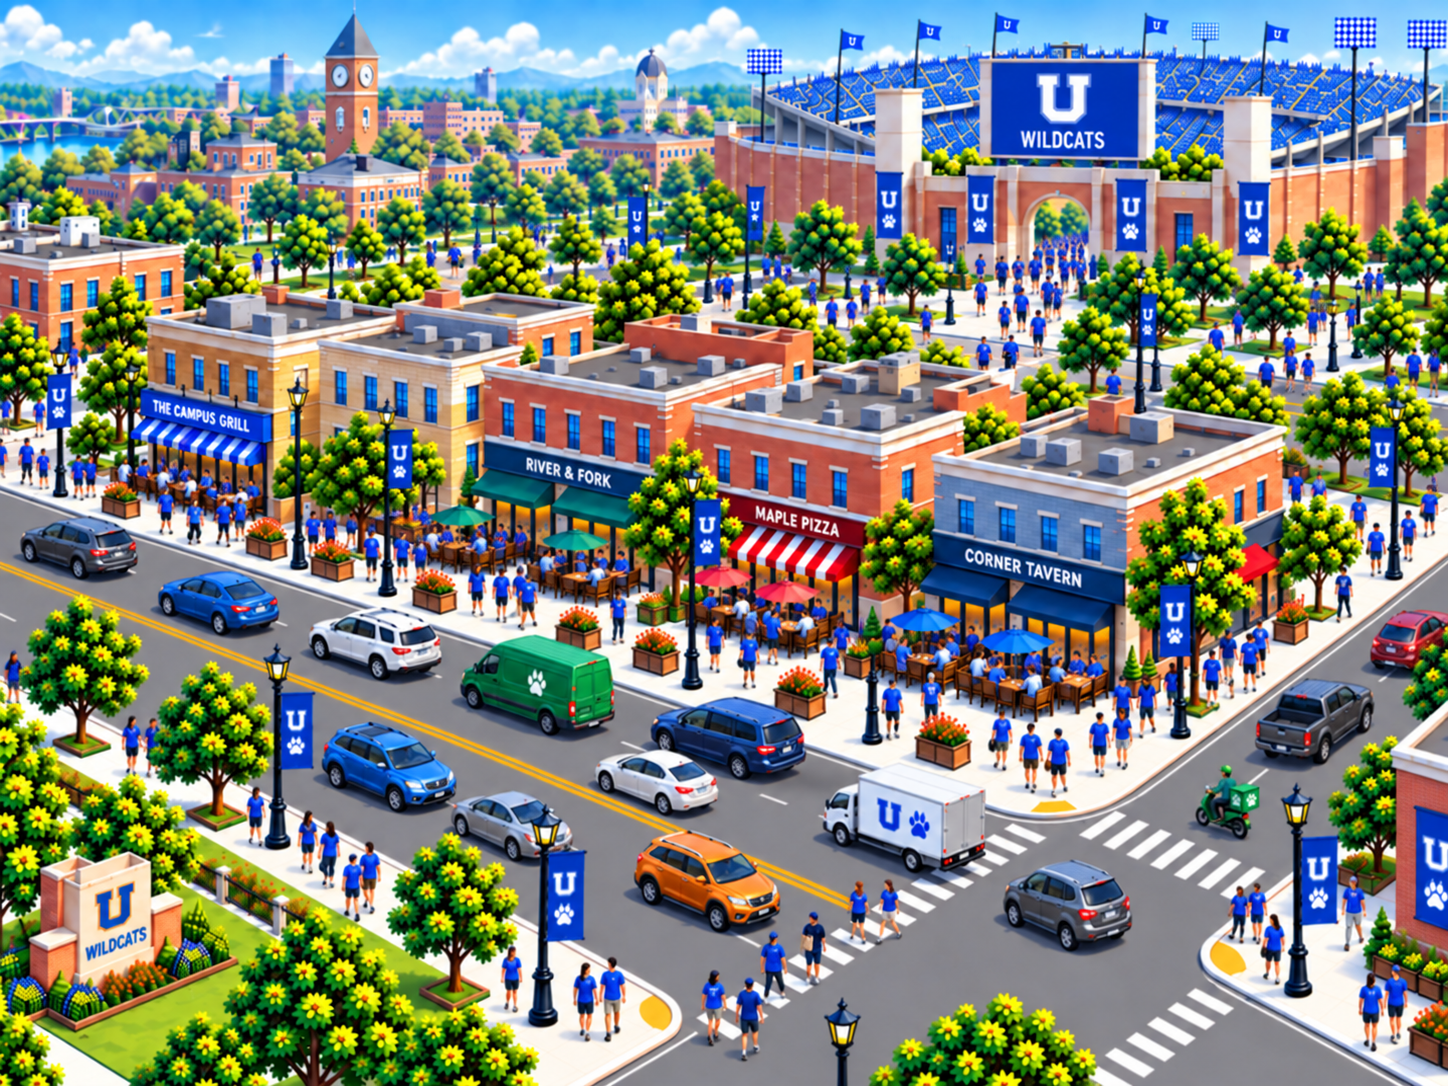
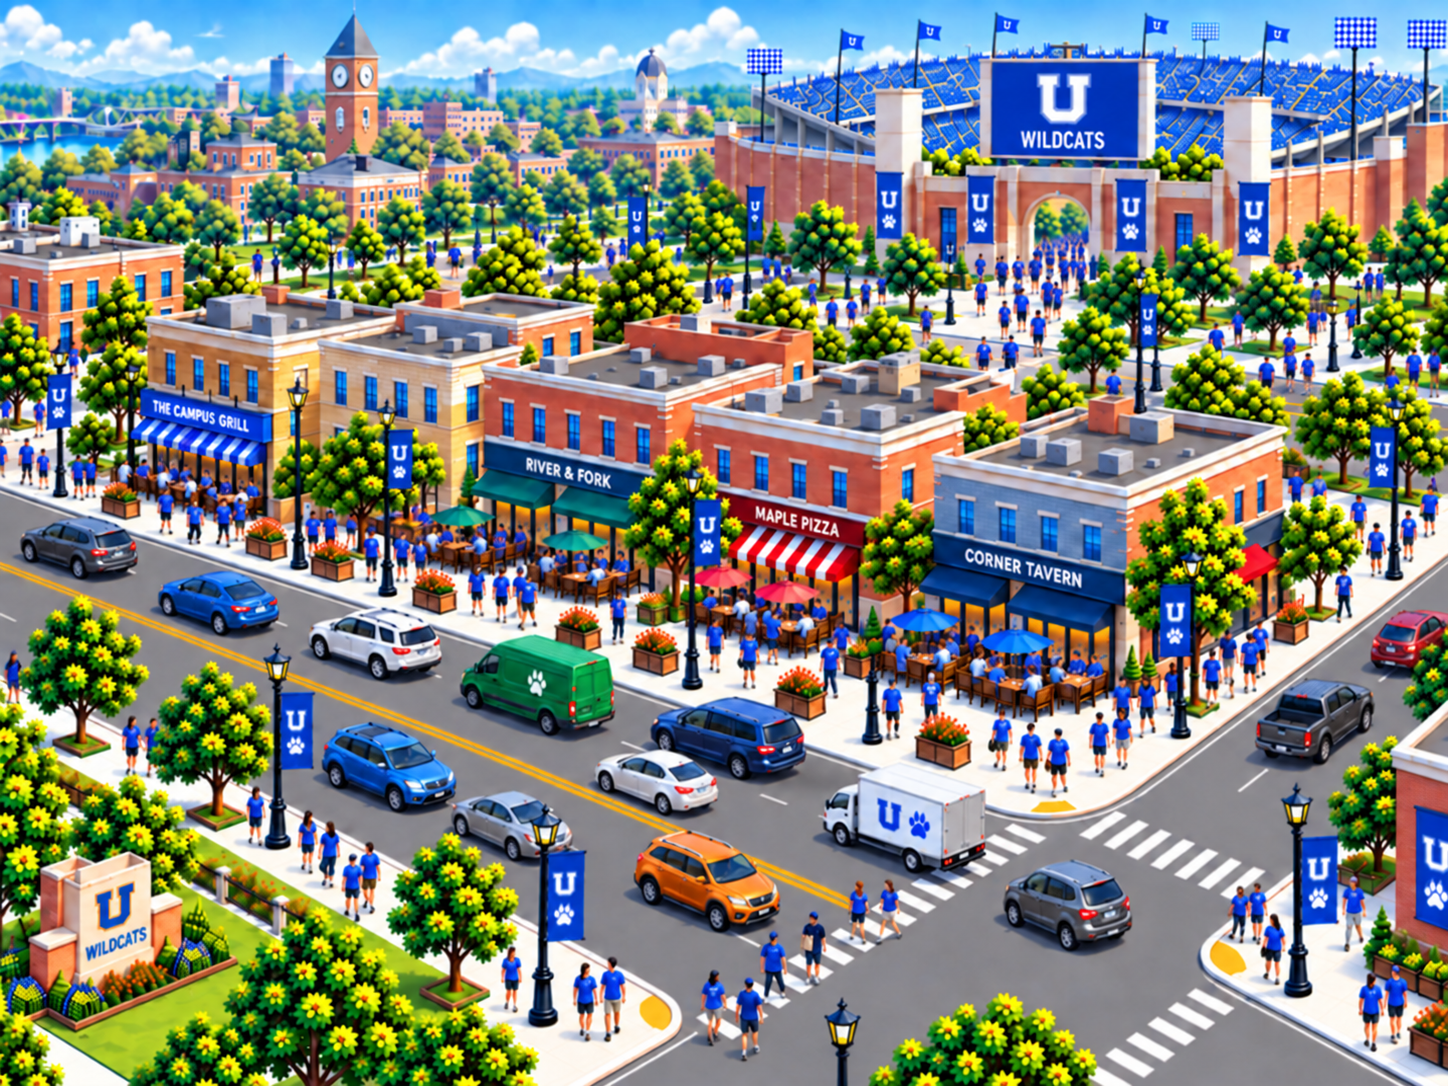
updated gameday rivals

diff --git a/audit_tools/econ_rpg/GAMES-PREVIEW-REPORT.md b/audit_tools/econ_rpg/GAMES-PREVIEW-REPORT.md
@@ -24,3 +24,13 @@ This area contains Takeout Taco: Lunch Rush, GDP Live, CPI Live, Labor Force Fil
 Screenshots and machine-readable results are kept in ignored `tmp/games-preview/local/` and `tmp/games-preview/live/`. Desktop and phone hub layouts were visually inspected.
 
 Local and live results: **24/24 game launch, interaction, and return checks passed** (12 games at each width); **233/233 runtime files returned HTTP 200**. The live indexing header and absence of a collection link on the public Games page were verified. No captured page errors or failed asset responses occurred. These are navigation/playability smoke checks, not new full completion playthroughs of every game.
+
+## September 29 access restoration
+
+A later deployment, `582e34f5-16a3-4c2b-b130-728830b62600`, replaced the staged asset set with repository-root files. Both unlisted preview areas returned 404 while the public Games page remained available. Root-only report files were reachable, confirming that this was the wrong publication directory.
+
+Redeployed the complete generated site as version `378d4b80-b358-4253-8baf-29be50c1a682`, preserving Worker bindings and variables. Live checks again passed all 24 game launch/interaction/return cases and all 233 runtime asset requests. The separate Signal House preview returned HTTP 200; the collection hub and Signal House title screen were also verified in the in-app browser.
+
+`wrangler.jsonc` now runs `node audit_tools/public_site_publication/build-dist.mjs` before deployment and retains `assets.directory: "./dist"`. Publication tests verify these settings and that other runtime configuration remains unchanged.
+
+The separate Cloudflare automatic-build configuration could not yet be inspected: the CLI credentials return 403 for Workers Builds settings and the dashboard requires sign-in. Ensure its deployment command respects this configuration, for example `npx wrangler deploy --config wrangler.jsonc --keep-vars`, with no `--assets .` override. The repository build hook does not override a conflicting command-line asset directory. Dashboard verification remains pending sign-in.

diff --git a/audit_tools/econ_rpg/art/gameday-rivals-opener-edit.md b/audit_tools/econ_rpg/art/gameday-rivals-opener-edit.md
@@ -1,0 +1,13 @@
+# Home-opener artwork: moped removal
+
+The hub card uses `game/art/scenes/gameday-rivals/round-01-home-opener.webp`, derived from `art/source/gameday-rivals/round-01-home-opener.png`.
+
+The same runtime asset appears during Game Day 1 (Big Home Opener), both when choosing an offer and when viewing the revealed result, including a resumed first round. The other five game days have their own images. The removed moped and rider were part of the painted background, with no interactive or economic behavior.
+
+Both master PNG and runtime WebP were replaced with the user-requested edit at their original 1448 × 1086 dimensions. Asset-manifest sizes and SHA-256 hashes were updated. No game logic changed.
+
+Validation: all 15 Gameday Rivals tests and both publication tests passed. Deployed to the existing unlisted collection in Worker version `5596356c-4c26-49d3-9892-e5f8a36c2d67`. The live WebP SHA-256 matched the updated manifest, and the first-round scene was visually verified in the in-app browser.
+
+Tool: built-in image generation, edit mode. Final prompt:
+
+> Use case: precise-object-edit. Edit target: the attached original Gameday Rivals town illustration. Remove ONLY the small green delivery moped/scooter AND the person riding it in the lower-right street, just above the diagonal zebra crossing and immediately left of the black lamp post and blue U banner (approximately x=1190–1265, y=760–844 in the 1448x1086 original). Remove their shadow too and seamlessly reconstruct the gray asphalt and any white lane marking behind them. Preserve the full original composition, 4:3 framing, illustrated style, dimensions if possible, all buildings, signs, text, other people, other vehicles, green delivery van, crosswalks, trees, colors and lighting. Do not remove any other vehicle or pedestrian. This is a surgical object removal, not a redesign.
